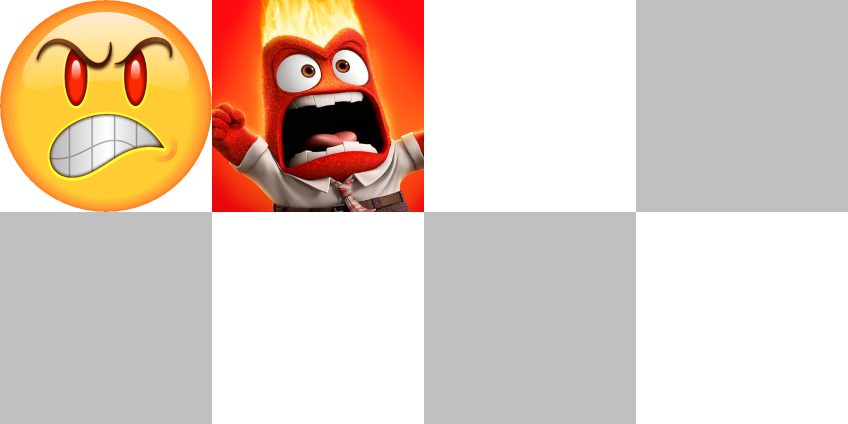
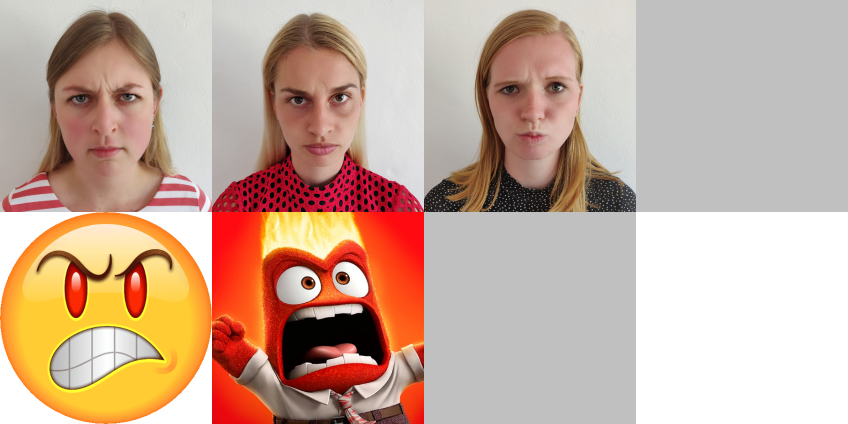
Update photos and graphics elements
Update photos and graphics elements

diff --git a/js/pkugame4.js b/js/pkugame4.js
@@ -141,7 +141,7 @@ var PKUgame4 = new Phaser.Class({
 
 		// make new face visible
 		this._face.setTexture("faces" + (this._face_idx+1));
-		var frm = Phaser.Math.RND.between(0, 1);
+		var frm = Phaser.Math.RND.between(0, 2); // 0..2, max 3 photos at the moment
 		this._face.setFrame(frm);
 
 		this._face.visible = true;
